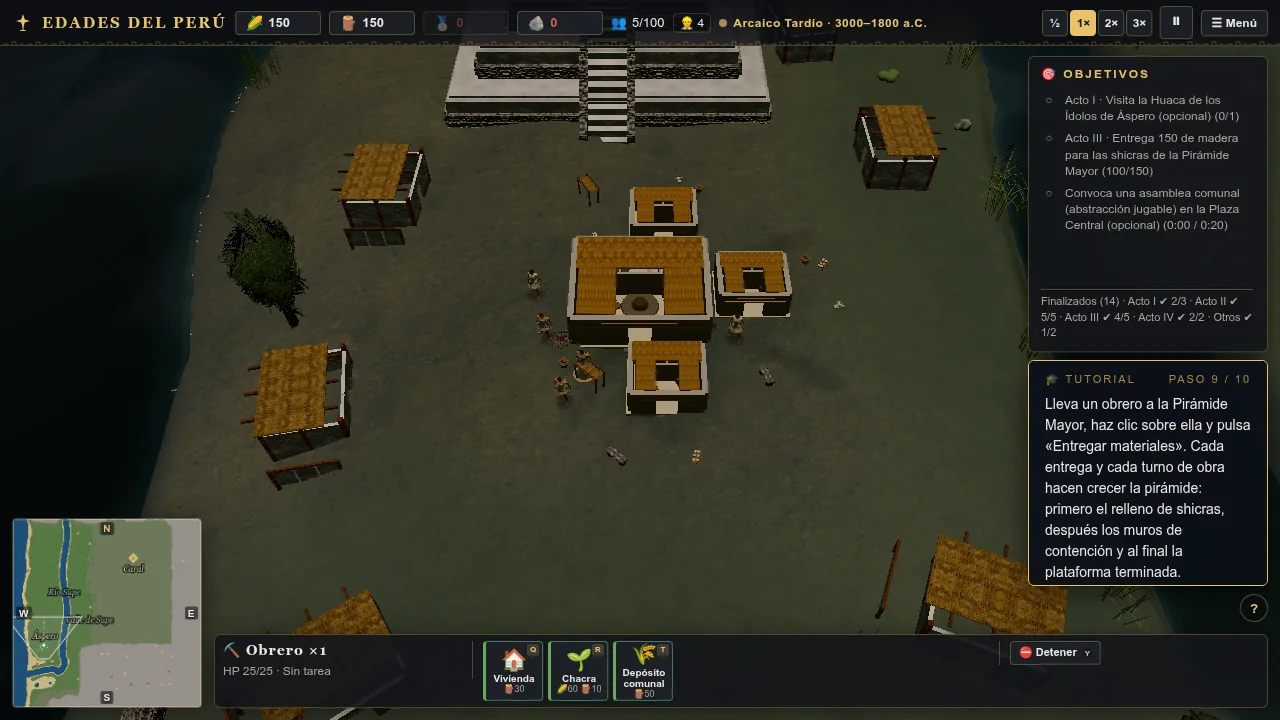
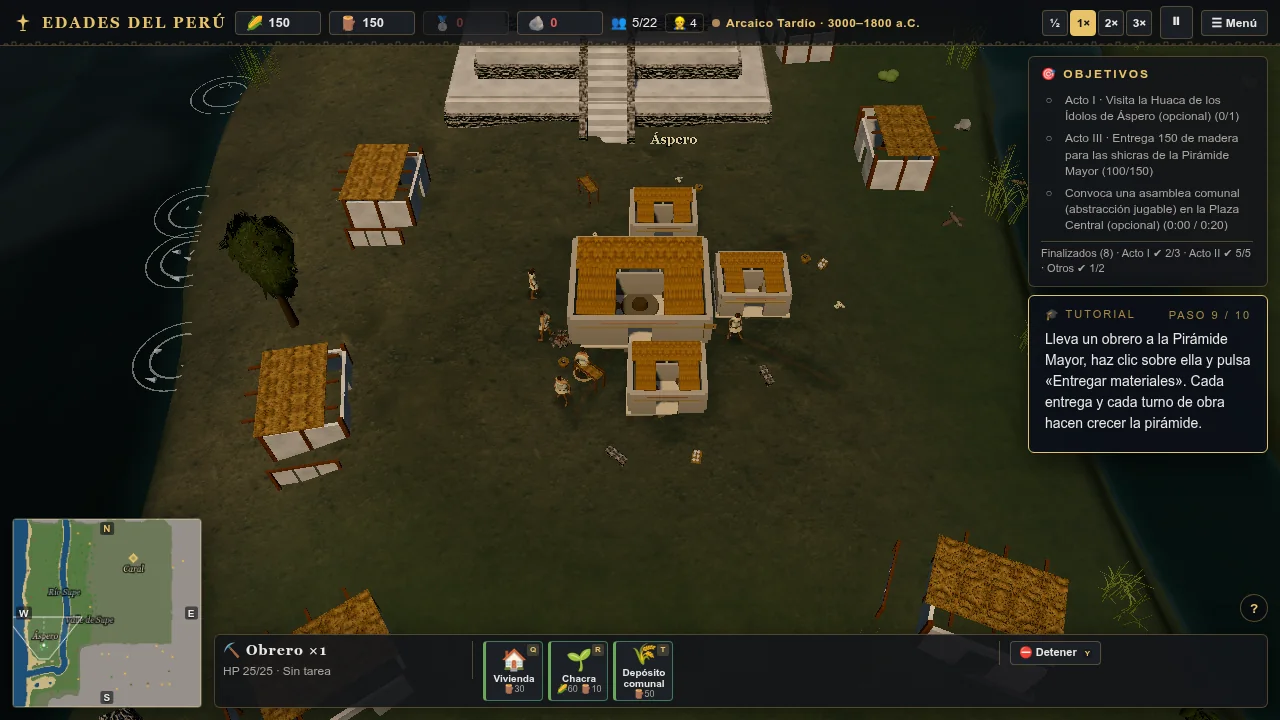
fix(hud): objetivos por contenido, filas enteras y estado real del Acto III

diff --git a/tests/e2e/hud-layout.spec.ts b/tests/e2e/hud-layout.spec.ts
@@ -336,32 +336,26 @@ for (const { width, height, missions } of RESOLUTIONS) {
 test.describe('objectives at 1280x720', () => {
   test.use({ viewport: { width: 1280, height: 720 } });
 
-  /**
-   * Issue 421: with three active goals and a long tutorial (Act III, step 9 of 10), `.obj-current`
-   * used to be capped at 60 % of a shrunken panel and cut a row through the middle. The active list
-   * must now size to its content, or show a real scroll affordance instead of a silent cut.
-   */
-  test('the Act III goals stay whole above the archive', { tag: '@smoke' }, async ({ page }) => {
-    test.setTimeout(120_000);
-    await bootMission(page, 'm1_caral');
-    const state = await page.evaluate(async () => {
-      const g = (window as unknown as { game: any }).game;
+  /** Put the mission in the recorded Act III state and show the real step 9 of 10. */
+  const act3State = (page: Page) =>
+    page.evaluate(async () => {
+      const g = (window as unknown as { game: any }).game as any;
       g.loop.stop();
-      // The recorded Act III state: the two optional goals and the wood delivery at 100/150.
+      document.getElementById('ed-dialogue')?.classList.remove('show');
       const active = new Set(['a1_huaca', 'a3_shicras', 'obj_asamblea']);
-      for (const o of g.mission.def.objectives as { id: string }[]) {
-        g.mission.objState.set(o.id, active.has(o.id) ? 'activo' : 'completed');
+      for (const o of g.mission.def.objectives as { id: string; title: string }[]) {
+        // Later acts are still pending, not archived as finished; Act I/II are done.
+        const state = active.has(o.id) ? 'activo' : /^Acto (III|IV) ·/.test(o.title) ? 'pendiente' : 'completed';
+        g.mission.objState.set(o.id, state);
       }
       g.mission.delivered.set('a3_shicras', 100);
-      // The recorded frame has the command bar open: select a worker so its height is part of the layout.
       const worker = [...g.units.values()].find((u: any) => u.owner === 0 && u.kind === 'worker' && !u.dead) as
         { id: number } | undefined;
       if (!worker) throw new Error('the mission has no player worker');
       g.selectUnits([worker.id]);
       g.hud.showTutorialStep(
         'Lleva un obrero a la Pirámide Mayor, haz clic sobre ella y pulsa «Entregar materiales». ' +
-          'Cada entrega y cada turno de obra hacen crecer la pirámide: primero el relleno de shicras, ' +
-          'después los muros de contención y al final la plataforma terminada.',
+          'Cada entrega y cada turno de obra hacen crecer la pirámide.',
         8,
         10,
       );
@@ -391,30 +385,154 @@ test.describe('objectives at 1280x720', () => {
         rows,
         texts: rows.map((row) => row.text),
         current: { top: cr.top, bottom: cr.bottom, height: cr.height, scrollHeight: current.scrollHeight },
-        panel: { top: pr.top, bottom: pr.bottom },
+        panel: { top: pr.top, bottom: pr.bottom, height: pr.height },
         tutorial: { top: tr.top, bottom: tr.bottom },
         bar: { top: br.top },
-        scrollable: current.dataset.scrollable === 'true',
+        scrollable: current.classList.contains('is-scrollable'),
         scrollbar: getComputedStyle(current).scrollbarWidth,
+        straddling: rows.filter((row) => row.top < cr.bottom - 0.5 && row.bottom > cr.bottom + 0.5).length,
         overlap: pr.bottom > tr.top + 0.5 && pr.top < tr.bottom - 0.5,
       };
     });
+
+  /**
+   * Issue 421: with three active goals and a long tutorial (Act III, step 9 of 10), `.obj-current`
+   * used to be capped at 60 % of a shrunken panel and cut a row through the middle. The active list
+   * must now size to its content, or show a real scroll affordance instead of a silent cut.
+   */
+  test('the Act III goals stay whole above the archive', { tag: '@smoke' }, async ({ page }) => {
+    test.setTimeout(120_000);
+    await bootMission(page, 'm1_caral');
+    const state = await act3State(page);
     expect(state.texts.join(' | ')).toContain('Visita la Huaca de los Ídolos');
     expect(state.texts.join(' | ')).toContain('Entrega 150 de madera');
     expect(state.texts.join(' | ')).toContain('Convoca una asamblea comunal');
     expect(state.rows).toHaveLength(3);
-    // The panel uses the column's free space and never reaches the command bar or the tutorial.
+    // The panel hugs its content and never reaches the command bar or the tutorial.
     expect(state.overlap, 'objectives overlap the tutorial').toBe(false);
     expect(state.panel.bottom).toBeLessThanOrEqual(state.tutorial.top + 1);
     expect(state.panel.bottom).toBeLessThanOrEqual(state.bar.top + 1);
+    expect(state.panel.height, 'the panel should not stretch to the whole column').toBeLessThan(420);
     const allInside = state.rows.every((row) => row.inside);
-    // Either every active goal is whole, or the cut edge advertises its scroll (thin thumb + fade).
     if (!allInside) {
       expect(state.scrollable, 'a clipped active list must advertise its scroll').toBe(true);
       expect(state.scrollbar).not.toBe('none');
       expect(state.current.scrollHeight).toBeGreaterThan(state.current.height);
     }
     expect(allInside || state.scrollable).toBe(true);
+    // Whatever the height, a row is never painted half outside the list at rest.
+    expect(state.straddling, 'no active row is cut through the middle').toBe(0);
+  });
+
+  /** A long Act III list must scroll without ever resting on a half row. */
+  test('an overflowing goal list ends on a whole row and keeps a visible scroll signal', async ({ page }) => {
+    test.setTimeout(120_000);
+    await bootMission(page, 'm1_caral');
+    const state = await page.evaluate(async () => {
+      const g = (window as unknown as { game: any }).game as any;
+      g.loop.stop();
+      const defs = g.mission.def.objectives as { id: string; title: string; kind: string }[];
+      const act3 = defs.filter((o) => /^Acto III ·/.test(o.title) && o.kind !== 'wait').slice(0, 6);
+      const active = new Set(['a1_huaca', 'obj_asamblea', ...act3.map((o) => o.id)]);
+      for (const o of defs) g.mission.objState.set(o.id, active.has(o.id) ? 'activo' : 'completed');
+      const worker = [...g.units.values()].find((u: any) => u.owner === 0 && u.kind === 'worker' && !u.dead) as
+        { id: number } | undefined;
+      if (!worker) throw new Error('the mission has no player worker');
+      g.selectUnits([worker.id]);
+      g.hud.showTutorialStep(
+        'Lleva un obrero a la Pirámide Mayor, haz clic sobre ella y pulsa «Entregar materiales». ' +
+          'Cada entrega y cada turno de obra hacen crecer la pirámide. Mantén el depósito con comida.',
+        8,
+        10,
+      );
+      const settle = () => new Promise<void>((resolve) => setTimeout(resolve, 80));
+      for (let i = 0; i < 3; i++) {
+        g.hud.update(0.2, 0);
+        await settle();
+      }
+      const current = document.querySelector<HTMLElement>('#ed-objectives .obj-current')!;
+      // The list may have restored a scroll from an earlier render; start from the top like the issue.
+      current.scrollTop = 0;
+      await settle();
+      const measure = () => {
+        const cr = current.getBoundingClientRect();
+        const rows = [...current.querySelectorAll<HTMLElement>('.obj')].map((el) => {
+          const r = el.getBoundingClientRect();
+          return {
+            top: r.top,
+            bottom: r.bottom,
+            inside: r.top >= cr.top - 0.5 && r.bottom <= cr.bottom + 0.5,
+          };
+        });
+        return {
+          bottom: cr.bottom,
+          rows,
+          scrollable: current.classList.contains('is-scrollable'),
+          scrollbar: getComputedStyle(current).scrollbarWidth,
+          scrollHeight: current.scrollHeight,
+          clientHeight: current.clientHeight,
+          maxHeight: current.style.maxHeight,
+          className: current.className,
+        };
+      };
+      const before = measure();
+      current.scrollTop = current.scrollHeight;
+      await settle();
+      const atEnd = measure();
+      const last = atEnd.rows[atEnd.rows.length - 1];
+      const panel = document.getElementById('ed-objectives')!;
+      const bar = document.getElementById('ed-bottom')!;
+      return {
+        before,
+        atEnd,
+        panelBottom: panel.getBoundingClientRect().bottom,
+        barTop: bar.getBoundingClientRect().top,
+        active: before.rows.length,
+        lastVisibleAtEnd: !!last && last.bottom <= atEnd.bottom + 1,
+      };
+    });
+    expect(state.active).toBeGreaterThanOrEqual(6);
+    expect(state.before.scrollable, 'the overflow list advertises its scroll').toBe(true);
+    expect(state.before.scrollbar).not.toBe('none');
+    expect(state.before.scrollHeight).toBeGreaterThan(state.before.clientHeight);
+    expect(
+      state.before.rows.filter((row) => row.top < state.before.bottom - 0.5 && row.bottom > state.before.bottom + 0.5),
+      'the list rests on a row boundary, not on half a line',
+    ).toHaveLength(0);
+    expect(state.lastVisibleAtEnd, 'the last goal is reachable by scrolling').toBe(true);
+    expect(state.panelBottom).toBeLessThanOrEqual(state.barTop + 1);
+  });
+
+  /** Fixing the overflow must not make a one-goal panel stretch to the command bar. */
+  test('a short goal list keeps the panel at its content height', { tag: '@smoke' }, async ({ page }) => {
+    test.setTimeout(120_000);
+    await bootMission(page, 'm1_caral');
+    const state = await page.evaluate(async () => {
+      const g = (window as unknown as { game: any }).game as any;
+      g.loop.stop();
+      for (const o of g.mission.def.objectives as { id: string }[]) {
+        g.mission.objState.set(o.id, o.id === 'a3_shicras' ? 'activo' : 'completed');
+      }
+      g.hud.hideTutorial();
+      const worker = [...g.units.values()].find((u: any) => u.owner === 0 && u.kind === 'worker' && !u.dead) as
+        { id: number } | undefined;
+      if (!worker) throw new Error('the mission has no player worker');
+      g.selectUnits([worker.id]);
+      g.hud.update(0.2, 0);
+      await new Promise<void>((resolve) => setTimeout(resolve, 120));
+      g.hud.update(0.2, 0);
+      const panel = document.getElementById('ed-objectives')!.getBoundingClientRect();
+      const bar = document.getElementById('ed-bottom')!.getBoundingClientRect();
+      return {
+        panelHeight: panel.height,
+        panelBottom: panel.bottom,
+        barTop: bar.top,
+        scrollable: document.querySelector('#ed-objectives .obj-current')!.classList.contains('is-scrollable'),
+      };
+    });
+    expect(state.scrollable).toBe(false);
+    expect(state.panelHeight, 'one goal should not produce an empty full-column panel').toBeLessThan(220);
+    expect(state.panelBottom).toBeLessThanOrEqual(state.barTop + 1);
   });
 });
 

diff --git a/src/ui/HUD.ts b/src/ui/HUD.ts
@@ -433,7 +433,7 @@ const CSS = /* css */ `
   .ed-codex-content .md-h3 { font-size: 13px; color: var(--text); margin: 10px 0 3px; }
 
   /* Tutorial */
-  #ed-tutorial { position: static; order: 1; flex: 0 1 auto; max-height: 40%; overflow-y: auto; width: 100%; background: rgba(12,16,24,0.95); border: 1px solid var(--gold); border-radius: 6px; padding: 12px 16px; box-shadow: 0 8px 30px rgba(0,0,0,0.6); display: none; pointer-events: auto; }
+  #ed-tutorial { position: static; order: 1; flex: 0 0 auto; max-height: 40%; overflow-y: auto; width: 100%; background: rgba(12,16,24,0.95); border: 1px solid var(--gold); border-radius: 6px; padding: 12px 16px; box-shadow: 0 8px 30px rgba(0,0,0,0.6); display: none; pointer-events: auto; }
   #ed-tutorial.show { display: block; animation: tutorial-in 0.3s ease; }
   @keyframes tutorial-in { from { opacity: 0; transform: translateY(-8px); } to { opacity: 1; transform: translateY(0); } }
   #ed-tutorial .tut-head { display: flex; justify-content: space-between; align-items: center; font-size: 11px; letter-spacing: 2px; color: var(--gold-dim); text-transform: uppercase; }
@@ -467,17 +467,18 @@ const CSS = /* css */ `
   /* Final screens, the pause menu and every other modal own the screen: the objectives column
      must not show through the veil, not even its sticky archive summary (issue 415). */
   #ui-root:has(> .ed-overlay:not(.hidden)) #ed-right-column { display: none; }
-  #ed-objectives { position: static; order: 0; flex: 1 1 auto; max-height: 100%; min-height: 104px; display: flex; flex-direction: column; width: 100%; overflow: hidden; background: var(--panel); border: 1px solid var(--line); border-radius: 6px; padding: 10px 12px; box-shadow: 0 4px 20px rgba(0,0,0,0.5); }
+  #ed-objectives { position: static; order: 0; flex: 0 1 auto; max-height: 100%; min-height: 104px; display: flex; flex-direction: column; width: 100%; overflow: hidden; background: var(--panel); border: 1px solid var(--line); border-radius: 6px; padding: 10px 12px; box-shadow: 0 4px 20px rgba(0,0,0,0.5); }
   #ed-objectives .obj-list { display: flex; flex-direction: column; flex: 1 1 auto; min-height: 0; overflow: hidden; padding-right: 2px; }
   /* Active goals size to their content: the panel grows into the column's free space and the archive
      yields first. A percentage cap here cut the list through a line (issue 421). */
-  #ed-objectives .obj-current { flex: 1 1 auto; max-height: none; min-height: 0; overflow-y: auto; scrollbar-width: thin; scrollbar-color: var(--gold-dim) rgba(0,0,0,0.25); scroll-snap-type: y proximity; }
+  #ed-objectives .obj-current { flex: 1 1 auto; max-height: none; min-height: 0; overflow-y: auto; scrollbar-width: thin; scrollbar-color: var(--gold-dim) rgba(0,0,0,0.25); }
   #ed-objectives .obj-current::-webkit-scrollbar { width: 6px; }
   #ed-objectives .obj-current::-webkit-scrollbar-track { background: rgba(0,0,0,0.25); border-radius: 3px; }
   #ed-objectives .obj-current::-webkit-scrollbar-thumb { background: var(--gold-dim); border-radius: 3px; }
   /* When the column is too short even for the active goals, fade the cut edge so the player sees the
      list continues; the thumb above stays visible. */
-  #ed-objectives .obj-current.is-scrollable { -webkit-mask-image: linear-gradient(180deg, #000 calc(100% - 14px), transparent); mask-image: linear-gradient(180deg, #000 calc(100% - 14px), transparent); }
+  #ed-objectives .obj-current.is-scrollable:not(.is-at-end) { -webkit-mask-image: linear-gradient(180deg, #000 calc(100% - 14px), transparent); mask-image: linear-gradient(180deg, #000 calc(100% - 14px), transparent); }
+  #ed-objectives .obj-current:focus-visible { outline: 1px solid var(--gold); outline-offset: 2px; }
   #ed-objectives .obj-current:empty { display: none; }
   /* The <details> itself is the scroll container: Chromium does not lay out its slotted children as
      flex items, so a nested flex scroller would overflow the panel instead of scrolling. */
@@ -487,7 +488,7 @@ const CSS = /* css */ `
   #ed-objectives details.obj-archive > summary:focus-visible { outline: 1px solid var(--gold); outline-offset: 2px; }
   #ed-objectives details.obj-archive[open] > summary { color: var(--green); }
   #ed-objectives h4 { margin: 0 0 8px; font-size: 12px; letter-spacing: 2px; color: var(--gold); text-transform: uppercase; }
-  #ed-objectives .obj { display: flex; gap: 8px; align-items: flex-start; font-size: 12px; color: var(--text-dim); padding: 3px 0; line-height: 1.35; scroll-snap-align: start; }
+  #ed-objectives .obj { display: flex; gap: 8px; align-items: flex-start; font-size: 12px; color: var(--text-dim); padding: 3px 0; line-height: 1.35; }
   #ed-objectives .obj .mark { min-width: 16px; text-align: center; color: var(--text-dim); }
   #ed-objectives .obj.done { color: var(--green); }
   #ed-objectives .obj.done .mark { color: var(--green); }
@@ -891,6 +892,8 @@ export class HUD {
     this.objPanelEl.style.display = 'none';
     this.objPanelEl.innerHTML = `<h4>${t('hud.objectives.title')}</h4>`;
     this.objListEl = this.el('div', 'obj-list', this.objPanelEl);
+    // The active list is rebuilt on every refresh, so listen on the stable container (capture).
+    this.objListEl.addEventListener('scroll', () => this.syncObjectivesFade(), true);
   }
 
   private buildDialogue(): void {
@@ -991,7 +994,10 @@ export class HUD {
           .join('')}</details>`
       : '';
     // The current goals live in their own region: expanding the archive never scrolls them away.
-    this.objListEl.innerHTML = `<div class="obj-current">${current.map(rowHtml).join('')}</div>` + archive;
+    this.objListEl.innerHTML =
+      `<div class="obj-current" role="region" tabindex="0" aria-label="${t('hud.objectives.active')}">${current
+        .map(rowHtml)
+        .join('')}</div>` + archive;
     const details = this.objListEl.querySelector('details');
     if (details) details.scrollTop = archiveScroll;
     const currentEl = this.objListEl.querySelector('.obj-current') as HTMLElement | null;
@@ -1000,15 +1006,39 @@ export class HUD {
   }
 
   /**
-   * Flag the active list when it really scrolls, so the cut edge gets a fade and the thumb is not the
-   * only hint (issue 421). `data-scrollable` is what the HUD e2e asserts.
+   * Flag the active list when it really scrolls (thin thumb + faded cut edge) and end the visible area
+   * on a whole row, so a long list never shows half a line at rest (issue 421).
    */
   private syncObjectivesScroll(): void {
     const current = this.objListEl.querySelector('.obj-current') as HTMLElement | null;
     if (!current) return;
-    const scrollable = current.scrollHeight > current.clientHeight + 1;
-    current.classList.toggle('is-scrollable', scrollable);
-    current.dataset.scrollable = scrollable ? 'true' : 'false';
+    current.style.removeProperty('max-height');
+    const available = current.clientHeight;
+    const overflowing = current.scrollHeight > available + 1;
+    if (!overflowing) {
+      current.classList.remove('is-scrollable', 'is-at-end');
+      return;
+    }
+    const top = current.getBoundingClientRect().top;
+    let whole = 0;
+    for (const row of current.querySelectorAll<HTMLElement>('.obj')) {
+      const rect = row.getBoundingClientRect();
+      const bottom = rect.bottom - top + current.scrollTop;
+      if (bottom <= available + 0.5) whole = Math.max(whole, bottom);
+    }
+    // Stop half a pixel short of the next row so its padding cannot peek under the fade.
+    if (whole > 0) current.style.maxHeight = `${Math.max(0, whole - 0.5)}px`;
+    current.classList.add('is-scrollable');
+    this.syncObjectivesFade();
+  }
+
+  /** The bottom fade disappears once the list is scrolled to its end, so the last row is not dimmed. */
+  private syncObjectivesFade(): void {
+    const current = this.objListEl.querySelector('.obj-current') as HTMLElement | null;
+    if (!current) return;
+    const atEnd = current.scrollTop + current.clientHeight >= current.scrollHeight - 1;
+    current.classList.toggle('is-at-end', atEnd);
+    current.classList.toggle('is-scrollable', current.scrollHeight > current.clientHeight + 1);
   }
 
   /**

diff --git a/src/i18n/es.ts b/src/i18n/es.ts
@@ -53,6 +53,7 @@ export const es = {
   'hud.topbar.pauseTitle': 'Pausa (P)',
   'hud.topbar.menu': '☰ Menú',
   'hud.objectives.title': '🎯 Objetivos',
+  'hud.objectives.active': 'Objetivos activos',
   'hud.discovery': 'Zona descubierta: {name}',
   'hud.objectives.archive': 'Finalizados ({count})',
   'hud.objectives.archiveOther': 'Otros',

diff --git a/docs/development.md b/docs/development.md
@@ -206,10 +206,11 @@ Definition of Done and the building audit see
   `Nombre:` prefix to a portrait. `status: 'abstraction'` marks stylistic reconstructions (never likenesses).
 - **HUD right column** (issues 401–402): `#ed-objectives`, `#ed-tutorial` and `#ed-help` share one
   `#ed-right-column` flex stack whose bottom is the live command-bar height (`--ed-command-bar-h`), so the
-  panels can never cover each other or reach the bar. The objectives panel grows into the column's free
-  space and the active goals size to their content, so they are never capped at a fraction of a shrunken
-  list (issue 421); the archive yields first. When even the active list does not fit, it scrolls with a thin
-  thumb and a faded bottom edge (`data-scrollable`), so the cut never reads as a silent end. Finished goals
+  panels can never cover each other or reach the bar. The objectives panel hugs its content and the
+  active goals size to theirs, so they are never capped at a fraction of a shrunken list (issue 421); the
+  archive, not the active list, is the flex item that yields. When even the active list does not fit, it
+  scrolls with a thin thumb and a faded bottom edge (`is-scrollable`), and its height ends on a row
+  boundary, so it never rests on half a line. Finished goals
   fold into one `<details>` line grouped by act
   («Finalizados (N) · Acto I ✔ 2/2»), and that `<details>` is the archive's scroll container (a nested flex
   scroller does not receive a height inside `details`). `refreshObjectives` only re-renders when the visible
@@ -221,7 +222,8 @@ Definition of Done and the building audit see
   including a late mission with the archive folded and expanded, the shortcuts open, the Act IV pause menu,
   and the victory and defeat screens at 1280×720. The Act III frame of the issue is reproducible with
   `node scripts/shots_evidence.mjs --scene=hud-objectives-act3 --out=review/evidence/hud-objectives-act3`
-  (1280×720, UI kept visible) and is committed as `docs/media/caral-objectives-act3.webp`.
+  (1280×720, UI kept visible); convert its `hud.png` to WebP (quality 84) for
+  `docs/media/caral-objectives-act3.webp`.
 - **Water refraction**: `Water` renders the scene with its mesh hidden into a `WebGLRenderTarget`
   (`Game.renderWaterRefraction`) and the shader samples the seabed, offset by the wave normal and faded by the
   viewing angle (fresnel). It costs an extra scene pass, so it only runs with the cinematic set on and the
